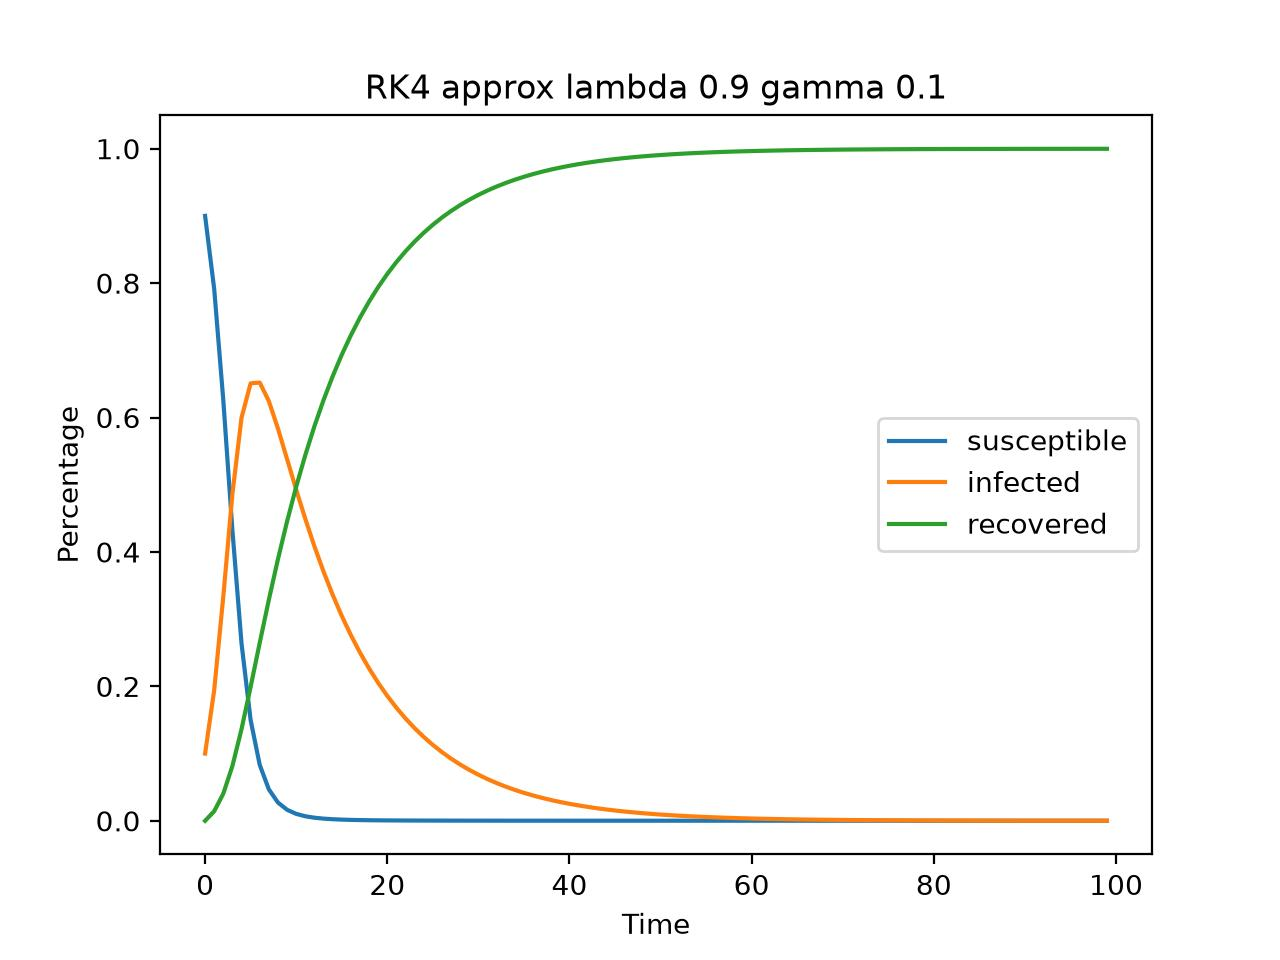
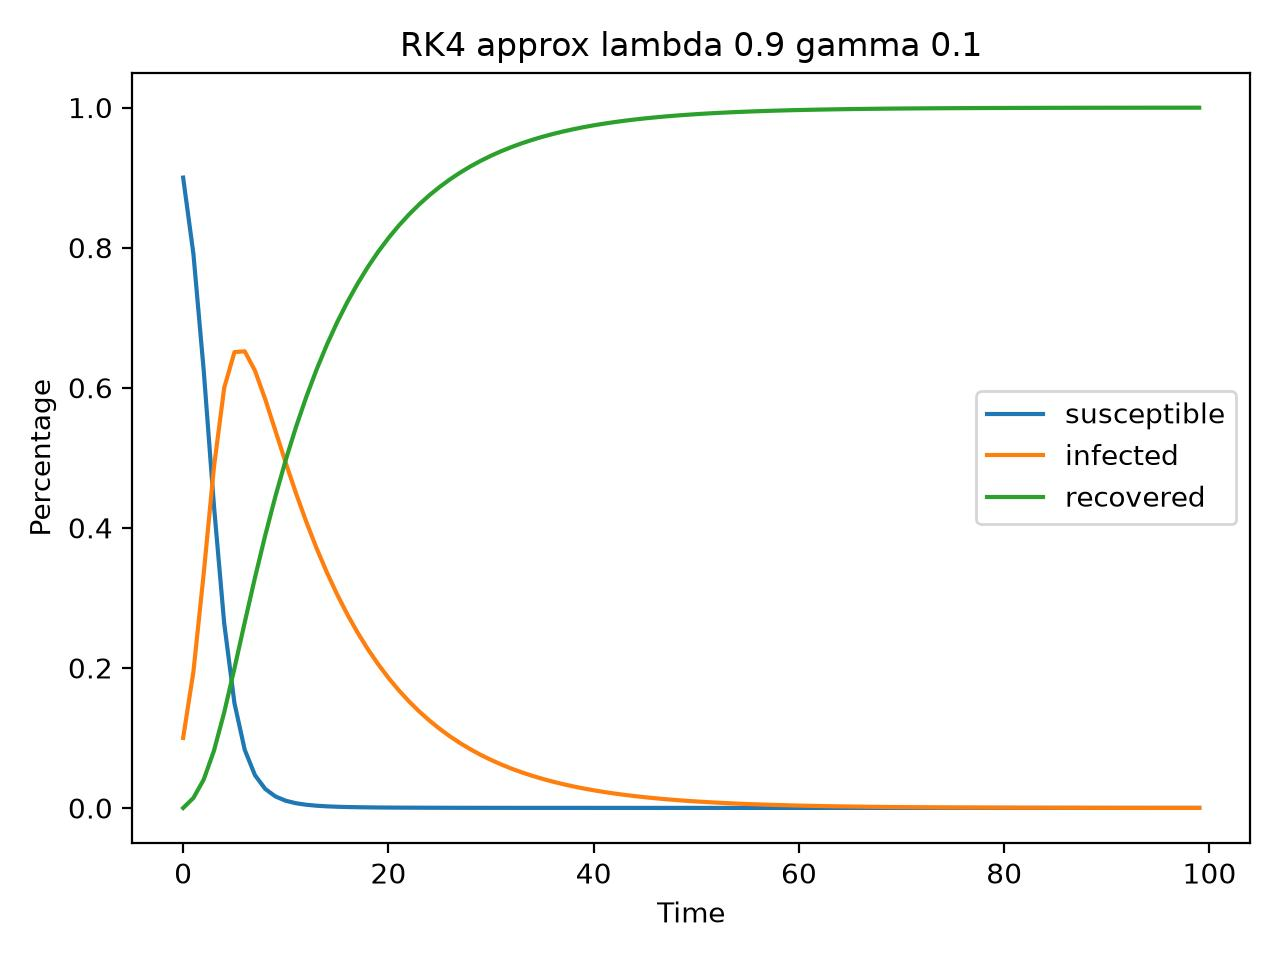
tight_layout added before savefig...

Changed region(s): [[0.0312, 0.0312, 0.9688, 0.9375], [0.6875, 0.4062, 0.9688, 0.5938], [0.5, 0.9375, 0.5625, 0.9688]]

diff --git a/sir_example.py b/sir_example.py
@@ -24,6 +24,7 @@ plt.xlabel('Time')
 plt.ylabel('Percentage')
 plt.title(f"RK4 approx lambda {lamb} gamma {gamma}")
 plt.legend()
+plt.tight_layout()
 plt.savefig('figures/sir_system_rk.jpg',dpi=200)
 plt.show()
 plt.close()
@@ -55,8 +56,8 @@ plt.xlabel('Time')
 plt.ylabel('Percentage')
 plt.title(f"RK4 approx \n Logistic Growth lambda {lamb} gamma {gamma} delta {delta} \n birth rate {np.round(b,2)} and death rate {np.round(d,2)} capacity K {K}")
 plt.legend()
-plt.savefig(f'figures/sirs_bvrk4_system_{delta}_{gamma}_{lamb}.jpg',dpi=200)
 plt.tight_layout()
+plt.savefig(f'figures/sirs_bvrk4_system_{delta}_{gamma}_{lamb}.jpg',dpi=200)
 plt.show()
 plt.close()
 
